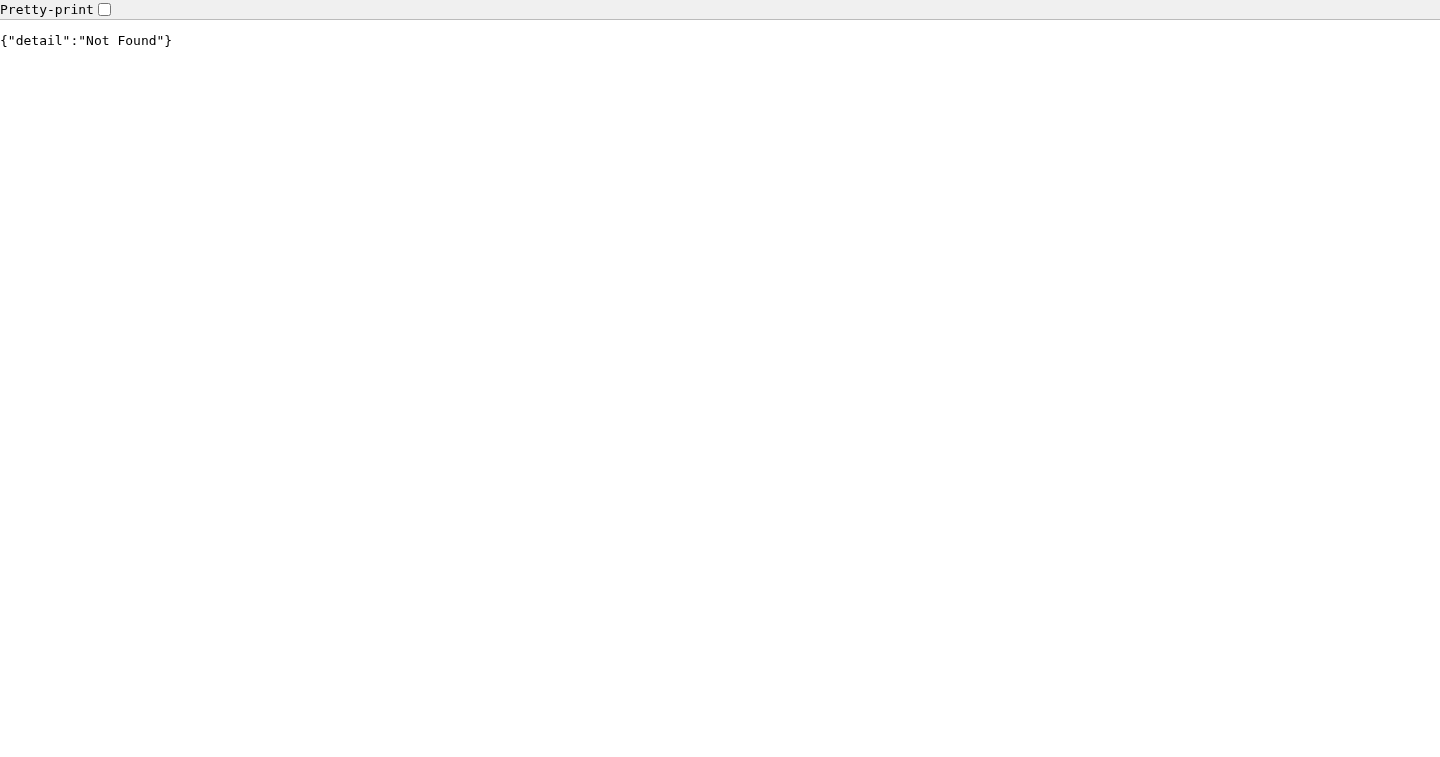
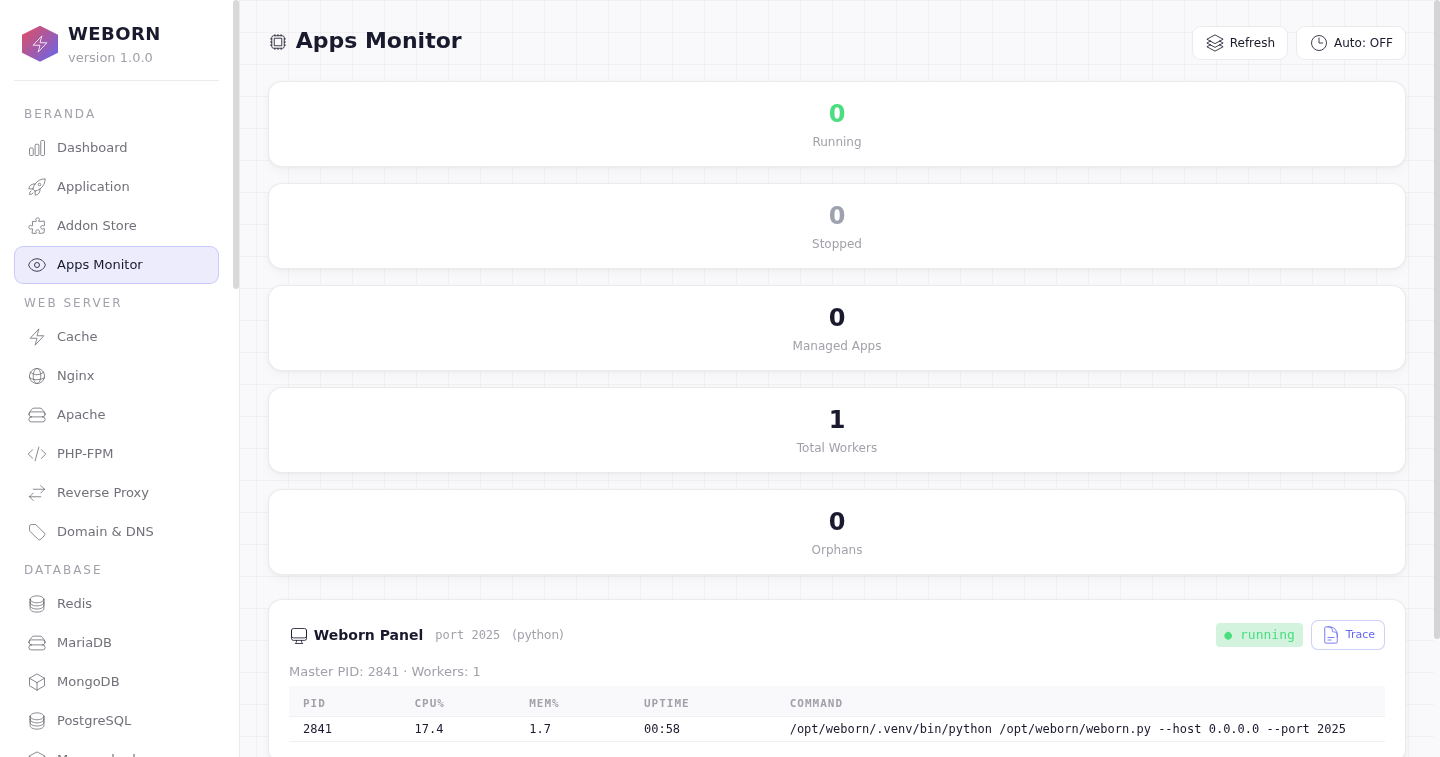
fix: idle lock 0=disabled + correct monitor screenshot (URL /apps/monitor)

diff --git a/weborn/auth.py b/weborn/auth.py
@@ -193,8 +193,9 @@ def get_current_user(request: Request):
     user = dict(row)
     if not user.get("is_active", 1):
         return None
-    # Check idle lock
-    timeout = int(user.get("session_timeout") or 300)
+    # Check idle lock (0 == disabled)
+    raw = user.get("session_timeout")
+    timeout = 300 if raw is None else int(raw)
     if is_idle_locked(user_id, timeout):
         return None
     # Update last activity
